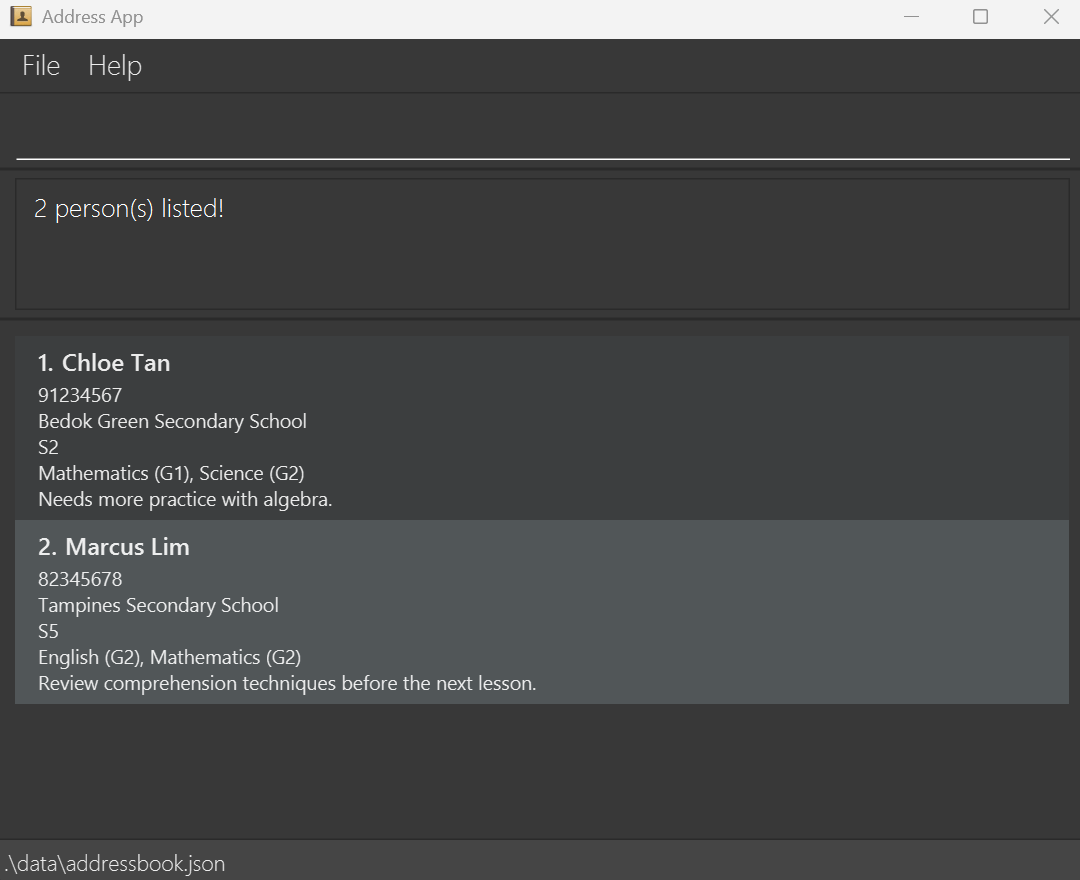
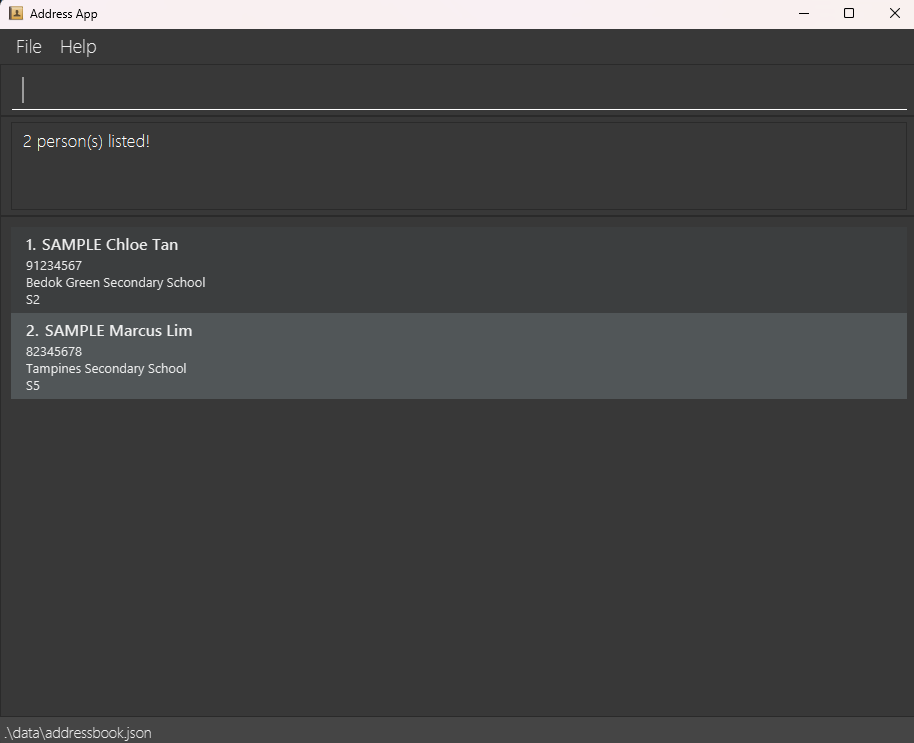
Updated UG examples to match new sample students

diff --git a/docs/UserGuide.md b/docs/UserGuide.md
@@ -247,8 +247,8 @@ Format: `find n/NAME`
 * Enter `list` to return to the full student list.
 
 Examples:
-* `find n/loe tan` returns `Chloe Tan`
-* `find n/c` returns `Chloe Tan` and `Marcus Lim` from the sample student list.<br>
+* `find n/loe tan` returns `SAMPLE Chloe Tan`
+* `find n/c` returns `SAMPLE Chloe Tan` and `SAMPLE Marcus Lim` from the sample student list.<br>
   ![Results for find c](images/findChloeMarcusResult.png)
 
 ### Deleting a person: `delete`
